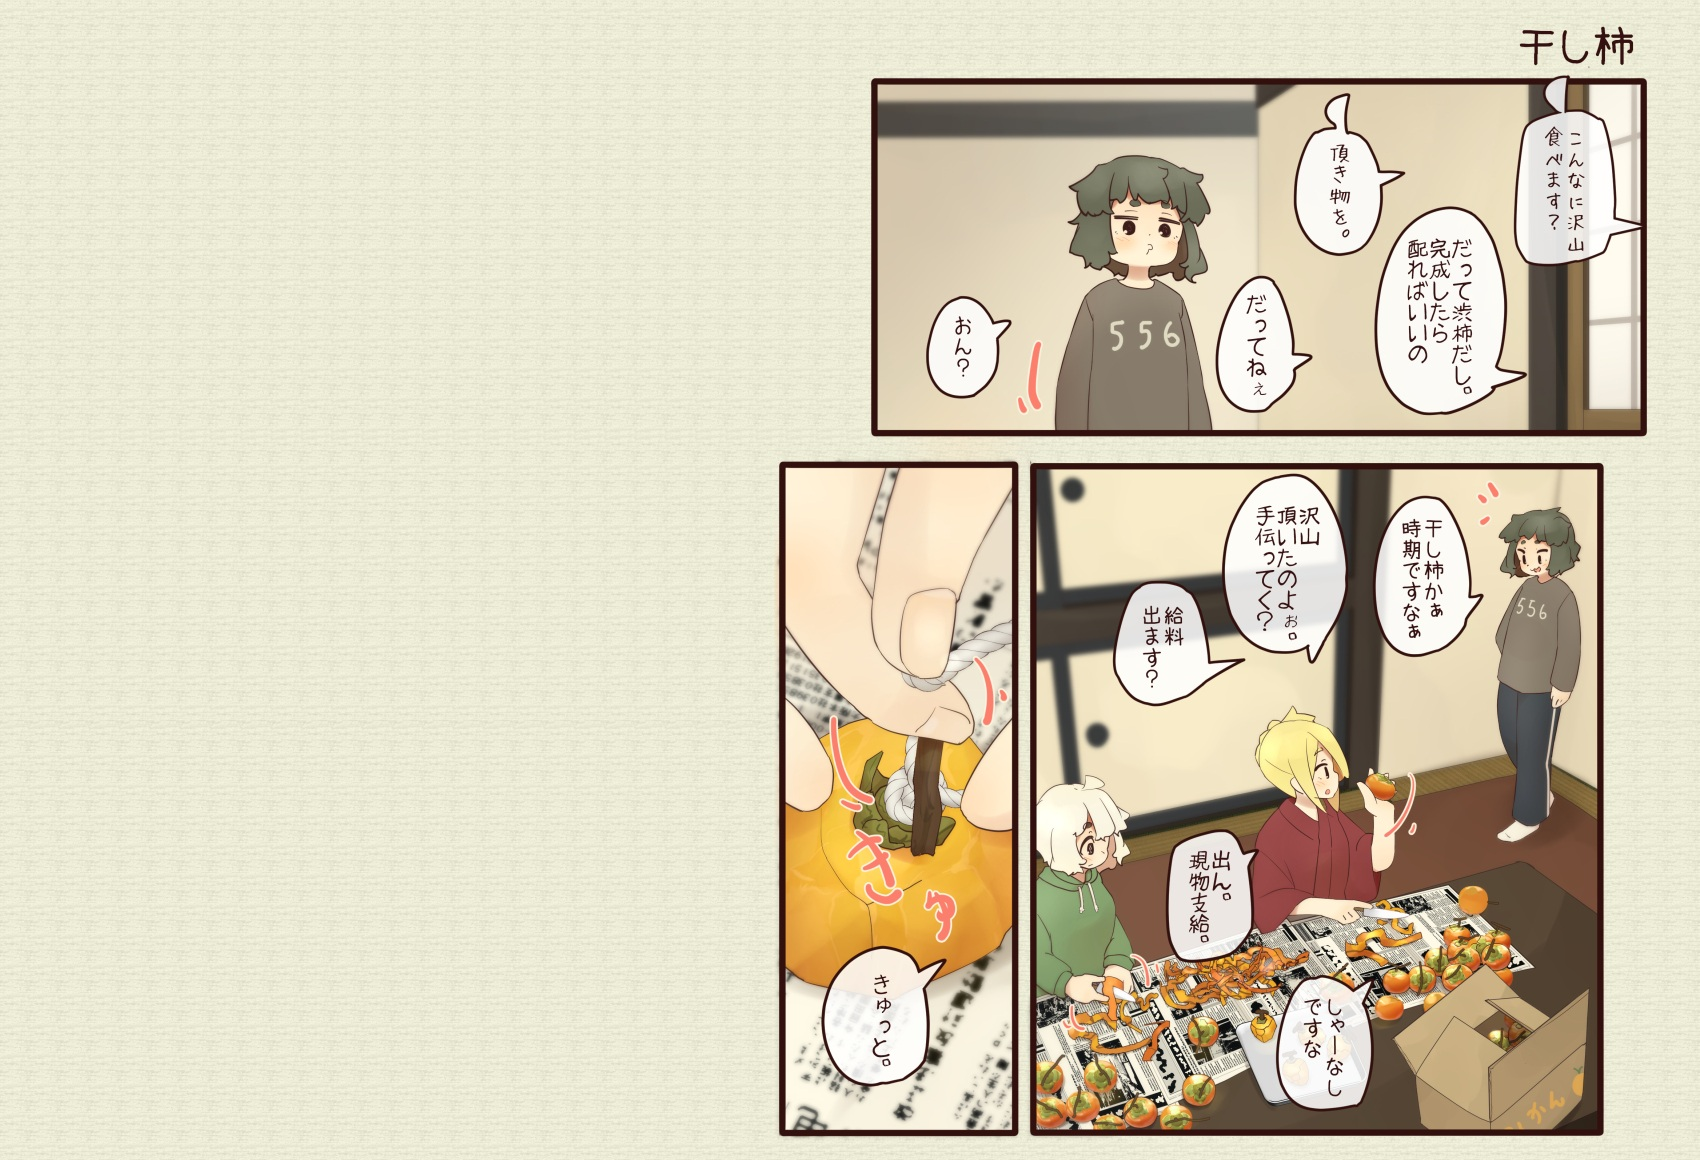
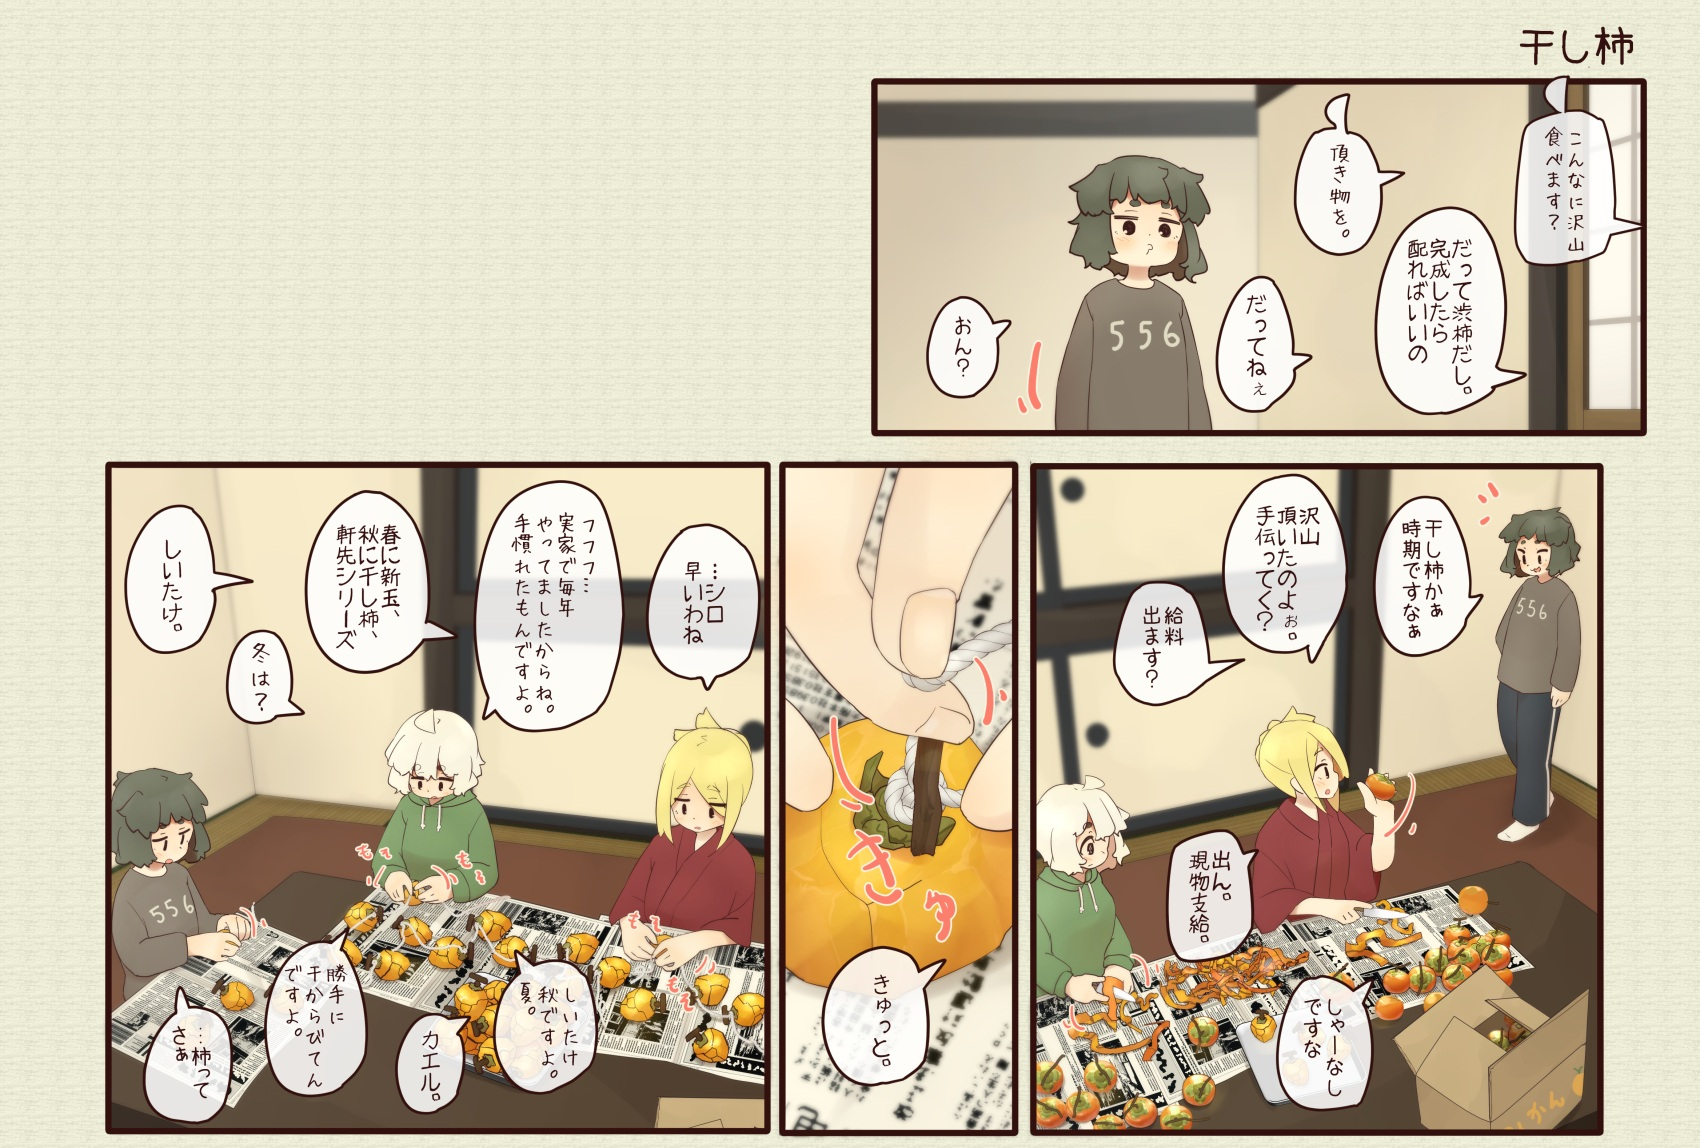
mops: find new update.

Changed region(s): [[0.0624, 0.061, 0.9665, 1.0], [0.9353, 0.2744, 0.9665, 0.3049], [0.9041, 0.7622, 0.9353, 0.7927]]

diff --git a/4komaData.js b/4komaData.js
@@ -3268,6 +3268,7 @@ pageData =
     "Title": "干し柿",
     "ImagesUrl": [
       "https://mo4koma.iranika.info/4koma/ja/359-1.jpg",
+      "https://mo4koma.iranika.info/4koma/ja/359-2.jpg",
       "https://mo4koma.iranika.info/4koma/ja/sp.jpg"
     ],
     "Index": 359

diff --git a/4komaDataMin.js b/4komaDataMin.js
@@ -3268,6 +3268,7 @@ pageData =
     "Title": "干し柿",
     "ImagesUrl": [
       "/359-1.jpg",
+      "/359-2.jpg",
       "/sp.jpg"
     ],
     "Index": 359
